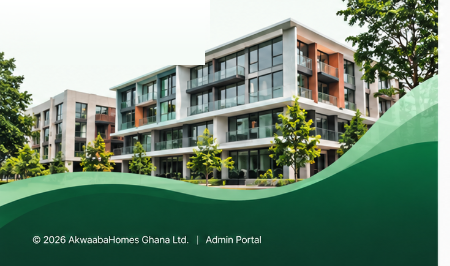
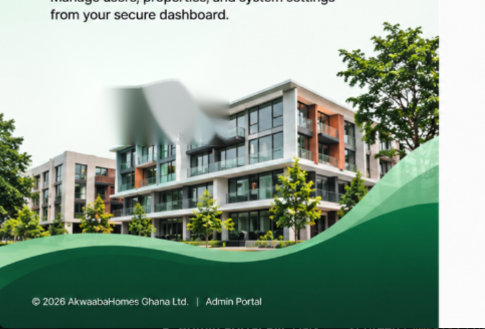
fix(admin): align admin login interface pixel-for-pixel to reference mockup

diff --git a/frontend/src/app/admin/login/page.tsx b/frontend/src/app/admin/login/page.tsx
@@ -10,16 +10,13 @@ import {
   CheckCircle2, 
   Eye, 
   EyeOff, 
-  ShieldCheck, 
   KeyRound,
   ShieldAlert,
   Copy, 
   Check, 
   Download, 
   AlertCircle, 
-  X,
-  TrendingUp,
-  Sliders
+  X
 } from 'lucide-react';
 import Link from 'next/link';
 import Image from 'next/image';
@@ -276,114 +273,68 @@ ${setupData.rawCodes.map((code, idx) => `${idx + 1}. ${code}`).join('\n')}
   }
 
   return (
-    <div className="-mt-16 min-h-screen w-full bg-gradient-to-br from-[#EBF7EE] via-[#F4FBF7] to-[#F8FDF9] text-[#141816] font-sans relative overflow-x-hidden flex flex-col justify-between">
+    <div className="-mt-16 min-h-screen w-full bg-white text-[#141816] font-sans relative overflow-x-hidden flex flex-col lg:flex-row">
       
-      {/* ── Background Landmark Watermark (Right Side) ── */}
-      <div 
-        className="pointer-events-none select-none absolute bottom-0 right-0 w-[180px] sm:w-[240px] md:w-[280px] lg:w-[320px] h-[360px] sm:h-[480px] lg:h-[576px] z-0 opacity-80"
-        style={{
-          backgroundImage: "url('/images/auth/admin-landmark-watermark.png')",
-          backgroundRepeat: 'no-repeat',
-          backgroundPosition: 'bottom right',
-          backgroundSize: 'contain',
-        }}
-      />
-
-      {/* ── Background Building & Green Waves (Bottom Left Side) ── */}
-      <div 
-        className="pointer-events-none select-none absolute bottom-0 left-0 w-[320px] sm:w-[420px] md:w-[480px] lg:w-[540px] h-[220px] sm:h-[280px] md:h-[320px] z-0 opacity-95"
-        style={{
-          backgroundImage: "url('/images/auth/admin-building-base.png')",
-          backgroundRepeat: 'no-repeat',
-          backgroundPosition: 'bottom left',
-          backgroundSize: 'contain',
-        }}
-      />
-
-      {/* ── Top Navigation Bar (Logo Link) ── */}
-      <div className="w-full px-6 sm:px-10 lg:px-14 pt-7 sm:pt-8 relative z-20 flex items-center justify-between">
-        <Link href="/" className="inline-flex items-center gap-3 group">
-          <Image 
-            src="/logo-light.png" 
-            alt="AkwaabaHomes" 
-            width={44} 
-            height={44} 
-            className="w-10 h-10 sm:w-11 sm:h-11 object-contain shrink-0" 
-            priority 
-          />
-          <div className="flex flex-col leading-none">
-            <span className="text-xl sm:text-2xl font-black text-zinc-900 tracking-tight">
-              AkwaabaHomes
-            </span>
-            <span className="text-xs font-semibold text-zinc-600 mt-1">
-              Live Well. Feel at Home.
-            </span>
-          </div>
+      {/* ── Left Column: Master Visual Banner (Exact Mockup Match) ── */}
+      <div className="hidden lg:block lg:w-[48%] xl:w-[46%] 2xl:w-[45%] relative min-h-screen bg-[#EBF7EE] shrink-0 overflow-hidden select-none">
+        <Image
+          src="/images/auth/admin-left-banner.png"
+          alt="AkwaabaHomes Admin Portal - Welcome Back, Administrator"
+          fill
+          priority
+          sizes="(max-width: 1024px) 100vw, 50vw"
+          className="object-cover object-left-top pointer-events-none"
+        />
+        {/* Invisible accessible link over top-left logo */}
+        <Link 
+          href="/" 
+          className="absolute top-6 left-8 w-56 h-16 z-20 cursor-pointer"
+          title="AkwaabaHomes Home"
+        >
+          <span className="sr-only">Go to AkwaabaHomes Home</span>
         </Link>
       </div>
 
-      {/* ── Main Dual-Sided Workspace (Exact Mockup Match) ── */}
-      <div className="flex-1 w-full max-w-7xl mx-auto px-6 sm:px-10 lg:px-14 py-8 sm:py-10 flex items-center relative z-10">
-        <div className="w-full grid grid-cols-1 lg:grid-cols-12 gap-10 lg:gap-8 items-center">
-
-          {/* ──── Left Column: Welcome Back Administrator ──── */}
-          <div className="lg:col-span-6 xl:col-span-6 space-y-6 pt-2 pb-16 lg:pb-28">
-            
-            {/* Pill: Admin Portal */}
-            <div>
-              <span className="inline-flex items-center px-4 py-1.5 rounded-full bg-[#0F5132] text-white text-xs font-bold tracking-wide shadow-xs">
-                Admin Portal
-              </span>
-            </div>
-
-            {/* Headline */}
-            <div className="space-y-3">
-              <h1 className="text-4xl sm:text-5xl lg:text-[52px] xl:text-[56px] font-black text-zinc-900 tracking-tight leading-[1.08]">
-                Welcome Back,<br />Administrator!
-              </h1>
-              <p className="text-sm sm:text-base text-zinc-700 font-medium max-w-md leading-relaxed">
-                Manage users, properties, and system settings from your secure dashboard.
-              </p>
-            </div>
-
-            {/* Feature Bullets with Circular Green Icons */}
-            <div className="space-y-3 pt-2">
-              <div className="flex items-center gap-3">
-                <div className="w-6 h-6 rounded-full bg-[#0F5132] flex items-center justify-center text-white shrink-0 shadow-2xs">
-                  <ShieldCheck className="w-3.5 h-3.5" />
-                </div>
-                <span className="text-sm font-semibold text-zinc-900">
-                  Secure Access
-                </span>
-              </div>
-
-              <div className="flex items-center gap-3">
-                <div className="w-6 h-6 rounded-full bg-[#0F5132] flex items-center justify-center text-white shrink-0 shadow-2xs">
-                  <TrendingUp className="w-3.5 h-3.5" />
-                </div>
-                <span className="text-sm font-semibold text-zinc-900">
-                  Real-Time Management
-                </span>
-              </div>
-
-              <div className="flex items-center gap-3">
-                <div className="w-6 h-6 rounded-full bg-[#0F5132] flex items-center justify-center text-white shrink-0 shadow-2xs">
-                  <Sliders className="w-3.5 h-3.5" />
-                </div>
-                <span className="text-sm font-semibold text-zinc-900">
-                  Complete Control
-                </span>
-              </div>
-            </div>
-
+      {/* ── Mobile Top Header (< lg) ── */}
+      <div className="lg:hidden w-full px-6 pt-6 pb-2 flex items-center justify-between bg-[#EBF7EE]">
+        <Link href="/" className="inline-flex items-center gap-2.5">
+          <Image 
+            src="/logo-light.png" 
+            alt="AkwaabaHomes" 
+            width={38} 
+            height={38} 
+            className="w-9 h-9 object-contain" 
+            priority 
+          />
+          <div className="flex flex-col leading-none">
+            <span className="text-lg font-black text-zinc-900 tracking-tight">AkwaabaHomes</span>
+            <span className="text-[10px] font-semibold text-zinc-600 mt-0.5">Live Well. Feel at Home.</span>
           </div>
+        </Link>
+        <span className="px-3 py-1 rounded-full bg-[#04793d] text-white text-[11px] font-bold">
+          Admin Portal
+        </span>
+      </div>
 
-          {/* ──── Right Column: Floating White Admin Console Card ──── */}
-          <div className="lg:col-span-6 xl:col-span-6 flex justify-center lg:justify-end">
-            <div className="w-full max-w-[460px] bg-white rounded-[32px] p-8 sm:p-11 shadow-[0_20px_50px_rgba(0,0,0,0.08)] border border-zinc-100 relative">
-              
-              {/* Shield Icon Badge */}
-              <div className="flex justify-center mb-3">
+      {/* ── Right Column: Interactive Admin Console Card with Landmark Backdrop ── */}
+      <div className="flex-1 relative min-h-screen bg-white flex flex-col items-center justify-center p-4 sm:p-8 lg:p-12 overflow-hidden">
+        
+        {/* Landmark & Diagonal Wave Backdrop (Anchored to Right Edge) */}
+        <div 
+          className="pointer-events-none select-none absolute top-0 right-0 h-full w-[320px] sm:w-[400px] md:w-[460px] lg:w-[500px] z-0 opacity-90"
+          style={{
+            backgroundImage: "url('/images/auth/admin-right-landmark.png')",
+            backgroundRepeat: 'no-repeat',
+            backgroundPosition: 'top right',
+            backgroundSize: 'contain',
+          }}
+        />
+
+        {/* Floating White Authentication Card */}
+        <div className="w-full max-w-[450px] bg-white rounded-[28px] sm:rounded-[32px] p-7 sm:p-10 shadow-[0_25px_60px_-15px_rgba(0,0,0,0.12)] border border-zinc-100 relative z-10">
+          
+          {/* Shield Icon Badge */}
+          <div className="flex justify-center mb-3">
                 <div className="w-20 h-20 relative flex items-center justify-center">
                   <Image 
                     src="/images/auth/admin-shield-icon.png" 
@@ -715,8 +666,8 @@ ${setupData.rawCodes.map((code, idx) => `${idx + 1}. ${code}`).join('\n')}
                   <div className="pt-2">
                     <button
                       type="submit"
-                      disabled={isLoading || !formData.email.trim() || !formData.password}
-                      className="w-full h-12 sm:h-13 bg-[#0F5132] hover:bg-[#0A3D24] active:bg-[#082E1B] text-white font-bold text-sm sm:text-base rounded-2xl flex items-center justify-center gap-2.5 shadow-sm shadow-[#0F5132]/20 transition-all cursor-pointer disabled:opacity-40 disabled:cursor-not-allowed"
+                      disabled={isLoading}
+                      className="w-full h-12 sm:h-13 bg-[#04793d] hover:bg-[#035f30] active:bg-[#024a25] text-white font-bold text-sm sm:text-base rounded-2xl flex items-center justify-center gap-2.5 shadow-sm shadow-[#04793d]/25 transition-all cursor-pointer"
                     >
                       {isLoading ? (
                         <Loader2 className="w-5 h-5 animate-spin" />
@@ -733,25 +684,23 @@ ${setupData.rawCodes.map((code, idx) => `${idx + 1}. ${code}`).join('\n')}
               )}
 
               {/* Faint Divider with Security Check */}
-              <div className="mt-7 flex items-center justify-center gap-3">
+              <div className="mt-7 flex items-center justify-center gap-3 select-none">
                 <div className="flex-1 h-[1px] bg-zinc-200/80" />
                 <div className="flex items-center gap-1.5 px-2 text-[11px] text-zinc-600 font-medium">
-                  <CheckCircle2 className="w-3.5 h-3.5 text-[#0F5132] fill-[#0F5132] text-white" />
+                  <CheckCircle2 className="w-3.5 h-3.5 text-[#04793d] fill-[#04793d] text-white" />
                   <span>Secured by industry-standard encryption</span>
                 </div>
                 <div className="flex-1 h-[1px] bg-zinc-200/80" />
               </div>
 
             </div>
+
+            {/* Mobile Copyright */}
+            <div className="lg:hidden mt-6 text-center text-[11px] text-zinc-500 font-medium">
+              &copy; {new Date().getFullYear()} AkwaabaHomes Ghana Ltd. | Admin Portal
+            </div>
+
           </div>
-
-        </div>
-      </div>
-
-      {/* ── Subtitle / Footer Folio on Left Waves ── */}
-      <div className="w-full px-6 sm:px-10 lg:px-14 pb-5 relative z-20 text-[11px] text-white/90 font-medium">
-        <span>&copy; {new Date().getFullYear()} AkwaabaHomes Ghana Ltd. | Admin Portal</span>
-      </div>
 
       {/* ── Trouble Signing In / Forgot Password Modal ── */}
       {showRecoveryModal && (
